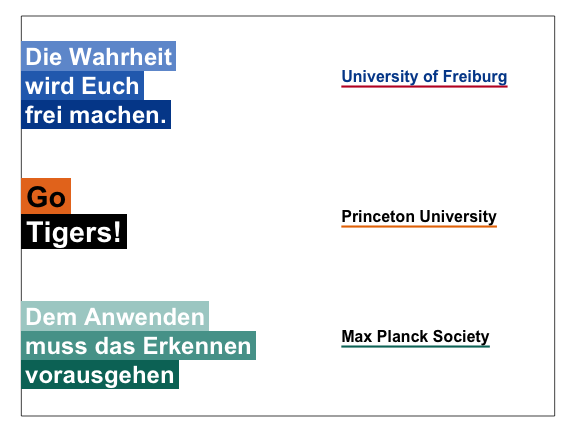
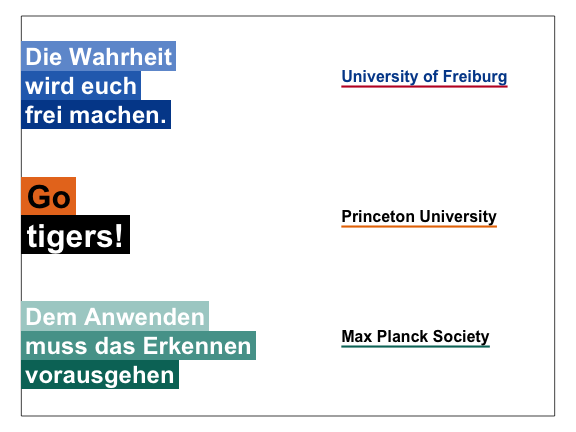
add badge for CRAN downloads

Changed region(s): [[0.0312, 0.4213, 0.25, 0.6019], [0.125, 0.1505, 0.25, 0.2407]]

diff --git a/README.md b/README.md
@@ -1,6 +1,6 @@
 
 <!-- README.md is generated from README.Rmd. Please edit THIS (Rmd) file. -->
-[![CRAN\_status](http://www.r-pkg.org/badges/version/unikn)](https://CRAN.R-project.org/package=unikn)
+[![CRAN\_status](http://www.r-pkg.org/badges/version/unikn)](https://CRAN.R-project.org/package=unikn) [![Downloads](http://cranlogs.r-pkg.org/badges/unikn?color=brightgreen)](http://www.r-pkg.org/pkg/unikn)
 
 <!-- Status badges:
 
@@ -578,15 +578,15 @@ uline(labels = c("University of Freiburg"),
       x = .6, y = .85, font = 2, cex = 1, 
       col = pal_freiburg_basic[[1]], col_bg = pal_freiburg_basic[[3]], 
       new_plot = "slide")
-mark(labels = c("Die Wahrheit", "wird Euch", "frei machen."), 
+mark(labels = c("Die Wahrheit", "wird euch", "frei machen."), 
      x = 0, y = .90, y_layout = 0, cex = 1.5, 
      col = c("white"), col_bg = rev(usecol(pal_freiburg_blue, 3)))
 
 # (B) Using orange_white or pal_princeton:
 uline(labels = c("Princeton University"), 
       x = .6, y = .5, font = 2, cex = 1, col_bg = orange_white)
-mark(labels = c("Go", "Tigers!"), 
-     x = 0, y = .55, y_layout = 0, cex = 1.8,  
+mark(labels = c("Go", "tigers!"), 
+     x = 0, y = .55, y_layout = 0, cex = 2.0,  
      col = c("black", "white"), col_bg = pal_princeton)
 
 # (C) Using pal_mpg:
@@ -714,7 +714,7 @@ Color definitions are based on the following sources:
 -   [Colours for complex graphics (xls)](https://www.uni-konstanz.de/en/university/news-and-media/create-online-and-print-media/corporate-design/colours-for-complex-graphics/)
 
 <!-- Update: -->
-\[Updated on 2019-06-16.\]
+\[Updated on 2019-06-17.\]
 
 <!-- eof. -->
 
